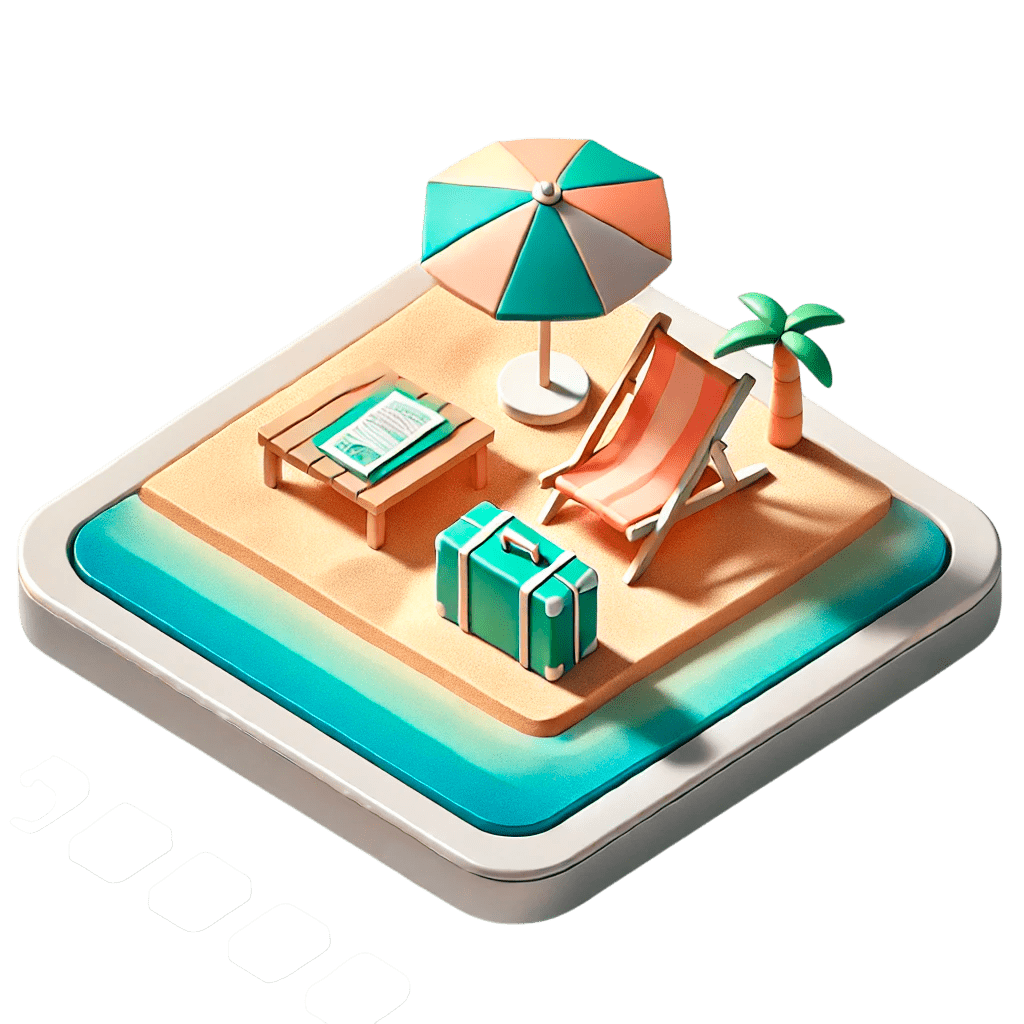
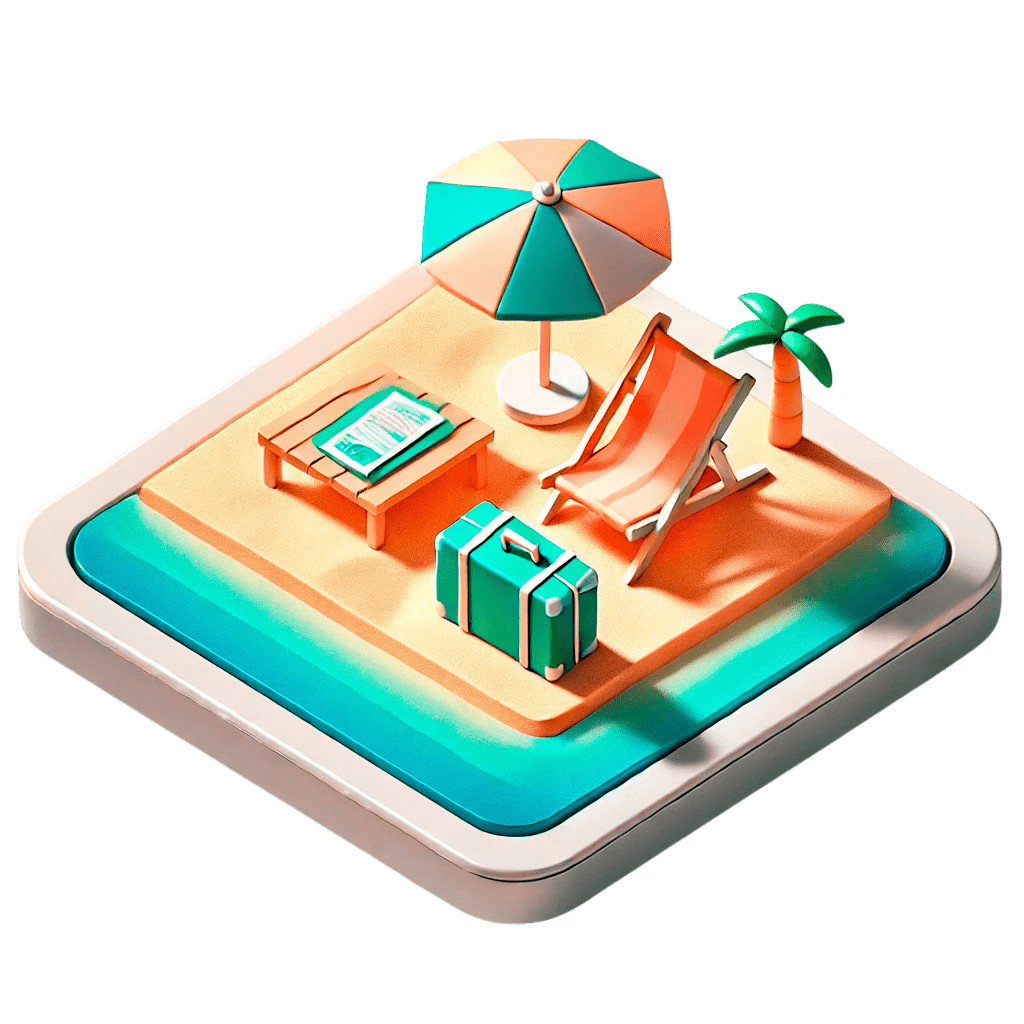
compressão das imagens

diff --git a/src/pages/central-de-ajuda/index.tsx b/src/pages/central-de-ajuda/index.tsx
@@ -2,7 +2,7 @@ import { useState } from 'react'
 
 import { GetServerSidePropsContext } from 'next'
 
-import heroFaq from '@/assets/images/hero-faq.png'
+import heroFaq from '@/assets/images/hero-faq.jpg'
 import axios, { AxiosError } from 'axios'
 import { AnimatePresence, motion, useScroll, useTransform } from 'framer-motion'
 import { getSession } from 'next-auth/react'
